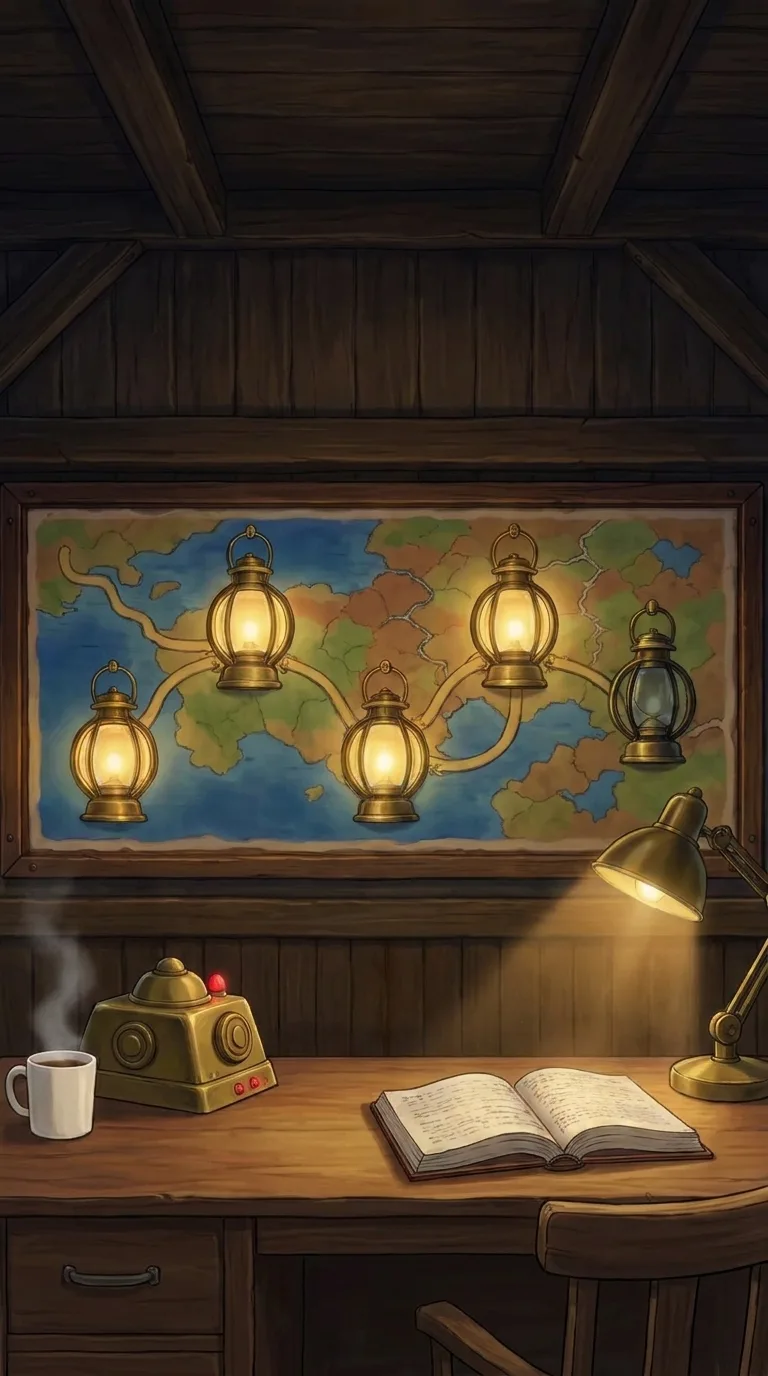
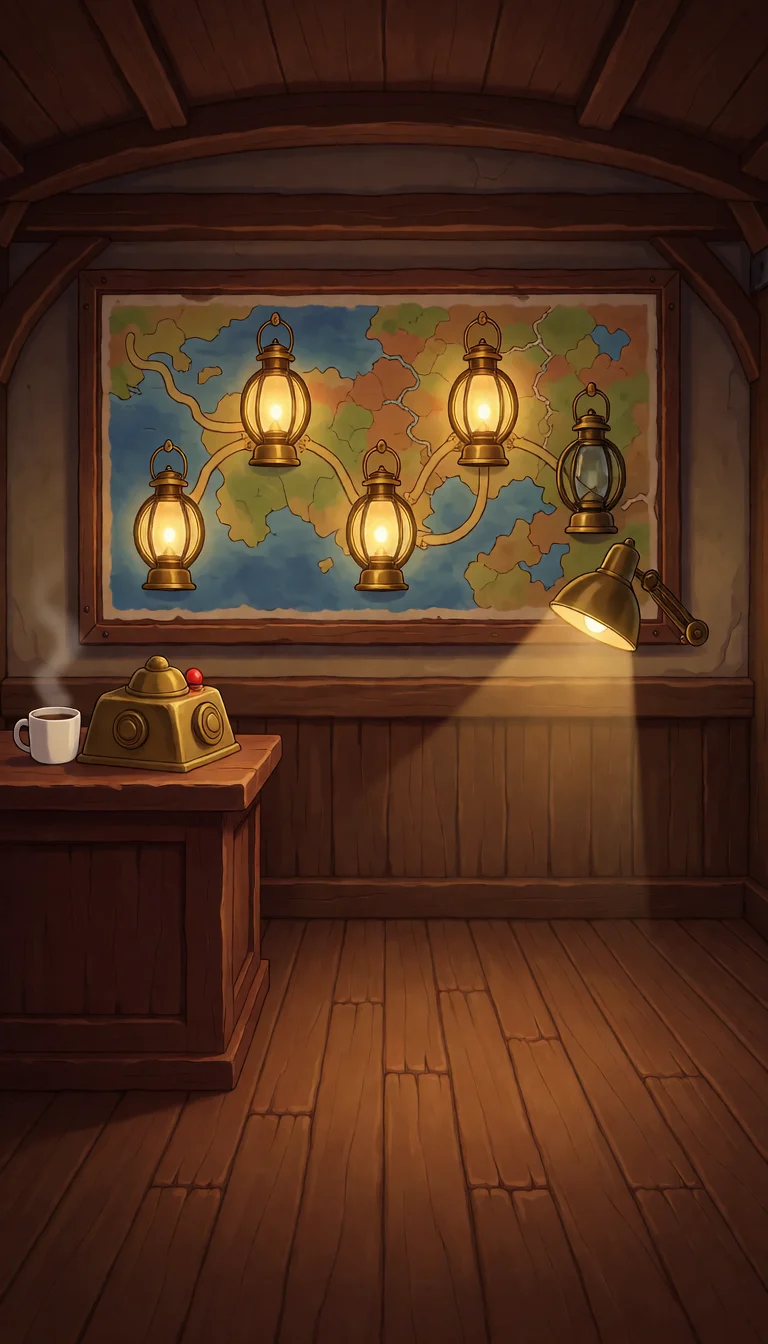
Use Ladi's repainted watch room, with floor for Uptima to stand on
Claude-Session: https://claude.ai/code/session_01JTmPY9kKTv8dDoqz3oT4oD

diff --git a/game/CREDITS.md b/game/CREDITS.md
@@ -70,7 +70,7 @@ Everything here was first made for or gathered by the first game, [Isekai'd Into
 | Kagemaru at the table (`assets/img/table/kage-*.webp`, 128 × 128 px): laying a pin, a hovering hand, caught out, smug, paying up and writing in his ledger | Generated for this game with [PixelLab](https://pixellab.ai) on Ladi's subscription on 2026-11-16: six text edits (`edit-image-pro-flash`) of Kagemaru's gloved portrait (`assets/img/portraits/kagemaru-gloved.webp`, scaled to 128 px) | Used under PixelLab's [Terms of Service](https://pixellab.ai/termsofservice) | The Look-Alike Cup (`js/mode-table.js`): his face beside each line, before chapter 6's reveal |
 | Exam Sprint's sprites, the Proving Road (`assets/img/sprint`): the 21 daemons, the shadow, the four jar states, Route 1's and Proctor's Pass's ten landmarks each, and the Lamp House | Generated for this game with [PixelLab](https://pixellab.ai) on Ladi's subscription on 2026-11-16 (52 generations, one pick per item), with hard alpha edges and the ink outline colour applied in code; the gold, empty and full jars were edited from the generated jars; converted to lossless WebP | Used under PixelLab's [Terms of Service](https://pixellab.ai/termsofservice) | Exam Sprint (`js/mode-sprint.js`) |
 | The Live shift's machine (`assets/img/ic-live`): the camp gate (API Gateway), the clerk's desk (a Lambda function), the reports desk (reports-job), the envelope rack (an SQS queue), the bin (a dead-letter queue), the vault (a DynamoDB table), three stools (a free, a reserved and a taken concurrent execution) and the request envelopes (sealed, bounced with a 429, done, poison, done twice) | Generated for this game with [PixelLab](https://pixellab.ai) on Ladi's subscription on 2026-11-16 (`generate-image-v2` on a clear background, with Exam Sprint's Lamp House as the style image; `tools/ic_live_art.py`, one pick per item), with hard alpha edges and trimmed; converted to lossless WebP | Used under PixelLab's [Terms of Service](https://pixellab.ai/termsofservice) | Incident Commander's Live shift (`js/ic-live.js`) |
-| Uptima standing in the Live shift (`assets/img/ic-live/uptima-body.webp` and the face frames `uptima-face-<frame>.webp`: neutral, blink, talk, happy, stern, worried and their talking frames) and the watch room without her asleep at the desk (`assets/img/ic-live/room-wide.webp`, `room-tall.webp`) | Painted for this game by Google's Gemini image model (gemini-3-pro-image) through the Gemini API on Ladi's account on 2026-11-16 (`tools/ic_live_uptima.py`): Uptima redrawn the same day from Ladi's persona sheet for her (with the card still for lighting), her moods painted as smug, bored and caught out, on flat green, keyed out; every frame an edit of that one picture, cut to a feathered face patch; the room an edit of the card still | Used under the [Gemini API Additional Terms of Service](https://ai.google.dev/gemini-api/terms) | Incident Commander's Live shift: Uptima in the room, blinking, talking and reacting (`js/ic-live.js`) |
+| Uptima standing in the Live shift (`assets/img/ic-live/uptima-body.webp` and the face frames `uptima-face-<frame>.webp`: neutral, blink, talk, happy, stern, worried and their talking frames) and the watch room without her asleep at the desk (`assets/img/ic-live/room-wide.webp`, `room-tall.webp`) | Painted for this game by Google's Gemini image model (gemini-3-pro-image) through the Gemini API on Ladi's account on 2026-11-16 (`tools/ic_live_uptima.py`): Uptima redrawn the same day from Ladi's persona sheet for her (with the card still for lighting), her moods painted as smug, bored and caught out, on flat green, keyed out; every frame an edit of that one picture, cut to a feathered face patch; the room an edit of the card still; the room repainted the same day by Ladi with Krea's image edit (Krea 2) from that Gemini room, seen from further back so she stands on open floor (`room-wide.webp`, `room-tall.webp`) | Used under the [Gemini API Additional Terms of Service](https://ai.google.dev/gemini-api/terms) and Krea's [Terms of Use](https://www.krea.ai/terms) | Incident Commander's Live shift: Uptima in the room, blinking, talking and reacting (`js/ic-live.js`) |
 
 | The vector proof of concept's art (`vector.html`, or `index.html?vector`): the opening "the files" (Freya's pavilion, the hands and the ring, the folders and intro cards), the cast's figures and faces (`js/vec-cast.js`), chapter 1's prologue backgrounds and stills and the battle backdrops (`js/vec-scenes.js`), chapter 2's scenes: Bram's wagon, the edge of the Cloud, Freya's tower, the scrap field and Seymour's bunker, Thornwick's square and silent post box, and the Sorting Floors (`js/vec-scenes2.js`), Kyu, Uptima and chapter 2's incidents, hit sparks and emotes (`js/vec-foes.js`) | Original, drawn in code for this game (SVG built in JavaScript; no generated or third-party images) | Same as the game's code | The vector demo, in place of every painted, generated or packed image |
 | Chapter 7's art (`js/c7-art.js`): the camp at the tower's foot (its ground, trees, the tower's foot and lift, the gift basket, Uptima's prayers, Cron's fence, Seo-yeon's school, the lanterns), Gary, Seymour, Pip, Coo and the marsh cat walking about, the stills from the camp to the dawn after, and floor 100's incidents, Freya's blessings and Freya | Original, drawn in code for this game (canvas and SVG built in JavaScript; no generated or third-party images) | Same as the game's code | Chapter 7 (`index.html?vector&ch7`) |
